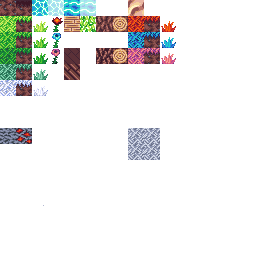
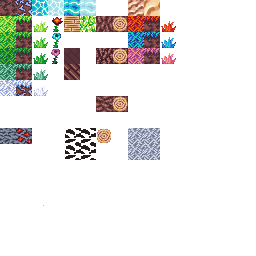
Added sand

diff --git a/src/chunk.rs b/src/chunk.rs
@@ -21,6 +21,7 @@ const TOP_LEFT: [f32; 2] = [0.0, 0.0];
 const TOP_RIGHT: [f32; 2] = [TEXTURE_WIDTH, 0.0];
 const BOTTOM_LEFT: [f32; 2] = [0.0, TEXTURE_WIDTH];
 const BOTTOM_RIGHT: [f32; 2] = [TEXTURE_WIDTH, TEXTURE_WIDTH];
+type Chunk = [[[BlockType; CHUNK_DEPTH]; CHUNK_HEIGHT]; CHUNK_WIDTH];
 
 #[derive(Debug, Clone, Copy, PartialEq, Eq, Serialize, Deserialize)]
 pub enum Rotation {
@@ -42,6 +43,7 @@ pub enum BlockType {
     Wood(Rotation),
     Leaf,
     Water,
+    Sand,
 }
 
 impl BlockType {
@@ -78,6 +80,7 @@ impl BlockType {
                 [TEXTURE_WIDTH * 5.0, 0.0],
                 [TEXTURE_WIDTH * 3.0, 0.0],
             ],
+            BlockType::Sand => [[TEXTURE_WIDTH * 9.0, 0.0]; 6],
             BlockType::Air => panic!("This is not supposed to be called!"),
         }
     }
@@ -107,7 +110,7 @@ impl BlockType {
 pub struct ChunkData {
     // pub location: [i32; 2],
     #[serde_as(as = "[[[_; CHUNK_DEPTH]; CHUNK_HEIGHT]; CHUNK_WIDTH]")]
-    pub contents: [[[BlockType; CHUNK_DEPTH]; CHUNK_HEIGHT]; CHUNK_WIDTH],
+    pub contents: Chunk,
 }
 
 const MAX_DISTANCE_X: i32 = MAX_DEPTH as i32 / CHUNK_WIDTH as i32 + 1;
@@ -187,6 +190,7 @@ const QUAD_INDICES: [u32; 6] = [0, 1, 2, 0, 2, 3];
 const CLOSE_CORNER: f32 = 0.5 + 0.5 * FRAC_1_SQRT_2;
 const FAR_CORNER: f32 = 0.5 - 0.5 * FRAC_1_SQRT_2;
 
+#[inline]
 fn add_arrs(a: [f32; 2], b: [f32; 2]) -> [f32; 2] {
     [a[0] + b[0], a[1] + b[1]]
 }
@@ -197,25 +201,16 @@ const SMALL_SCALE: f64 = 25.0;
 const LARGE_HEIGHT: f64 = 40.0;
 const TERRAIN_HEIGHT: f64 = 0.8;
 
-pub fn generate_chunk(
-    noise: &OpenSimplex,
-    chunk_location: [i32; 2],
-) -> [[[BlockType; CHUNK_DEPTH]; CHUNK_HEIGHT]; CHUNK_WIDTH] {
+pub fn generate_chunk(noise: &OpenSimplex, chunk_location: [i32; 2]) -> Chunk {
     let heightmap: Vec<Vec<i32>> = (0..CHUNK_WIDTH)
         .map(|x| {
             (0..CHUNK_DEPTH)
                 .map(|z| {
-                    (((noise_at(&noise, x as i32, z as i32, chunk_location, LARGE_SCALE, 0.0)
+                    (((noise_at(noise, x as i32, z as i32, chunk_location, LARGE_SCALE, 0.0)
                         + TERRAIN_HEIGHT)
                         * LARGE_HEIGHT)
-                        + (noise_at(
-                            &noise,
-                            x as i32,
-                            z as i32,
-                            chunk_location,
-                            SMALL_SCALE,
-                            10.0,
-                        ) * 10.0)) as i32
+                        + (noise_at(noise, x as i32, z as i32, chunk_location, SMALL_SCALE, 10.0)
+                            * 10.0)) as i32
                 })
                 .collect::<Vec<i32>>()
         })
@@ -227,8 +222,12 @@ pub fn generate_chunk(
                 let y_i32 = y as i32;
                 chunk_contents[x][y][z] = if y_i32 < heightmap[x][z] {
                     BlockType::Stone
-                } else if y_i32 == heightmap[x][z] && heightmap[x][z] + 1 >= WATER_HEIGHT as i32 {
-                    BlockType::GrassBlock
+                } else if y_i32 == heightmap[x][z] {
+                    if heightmap[x][z] + 1 > WATER_HEIGHT as i32 {
+                        BlockType::GrassBlock
+                    } else {
+                        BlockType::Sand
+                    }
                 } else if y < WATER_HEIGHT {
                     BlockType::Water
                 } else if y_i32 > heightmap[x][z]
@@ -263,7 +262,7 @@ pub fn generate_chunk(
 
 pub fn generate_chunk_mesh(
     location: [i32; 2],
-    chunk: &[[[BlockType; CHUNK_DEPTH]; CHUNK_HEIGHT]; CHUNK_WIDTH],
+    chunk: &Chunk,
     surrounding_chunks: [Option<&ChunkData>; 4], // north, south, east, west for... reasons...
 ) -> (Vec<Vertex>, Vec<u32>) {
     let (mut vertices, mut indices) = (vec![], vec![]);

diff --git a/src/ray.rs b/src/ray.rs
@@ -85,12 +85,12 @@ impl Iterator for Ray {
             .unwrap();
         self.position += real_change;
         let direction = direction * 2
-            + match direction {
+            + usize::from(match direction {
                 0 => positive_x,
                 1 => positive_y,
                 2 => positive_z,
                 _ => false,
-            } as usize;
+            });
         match direction {
             0 => self.block_position.x -= 1,
             1 => self.block_position.x += 1,
